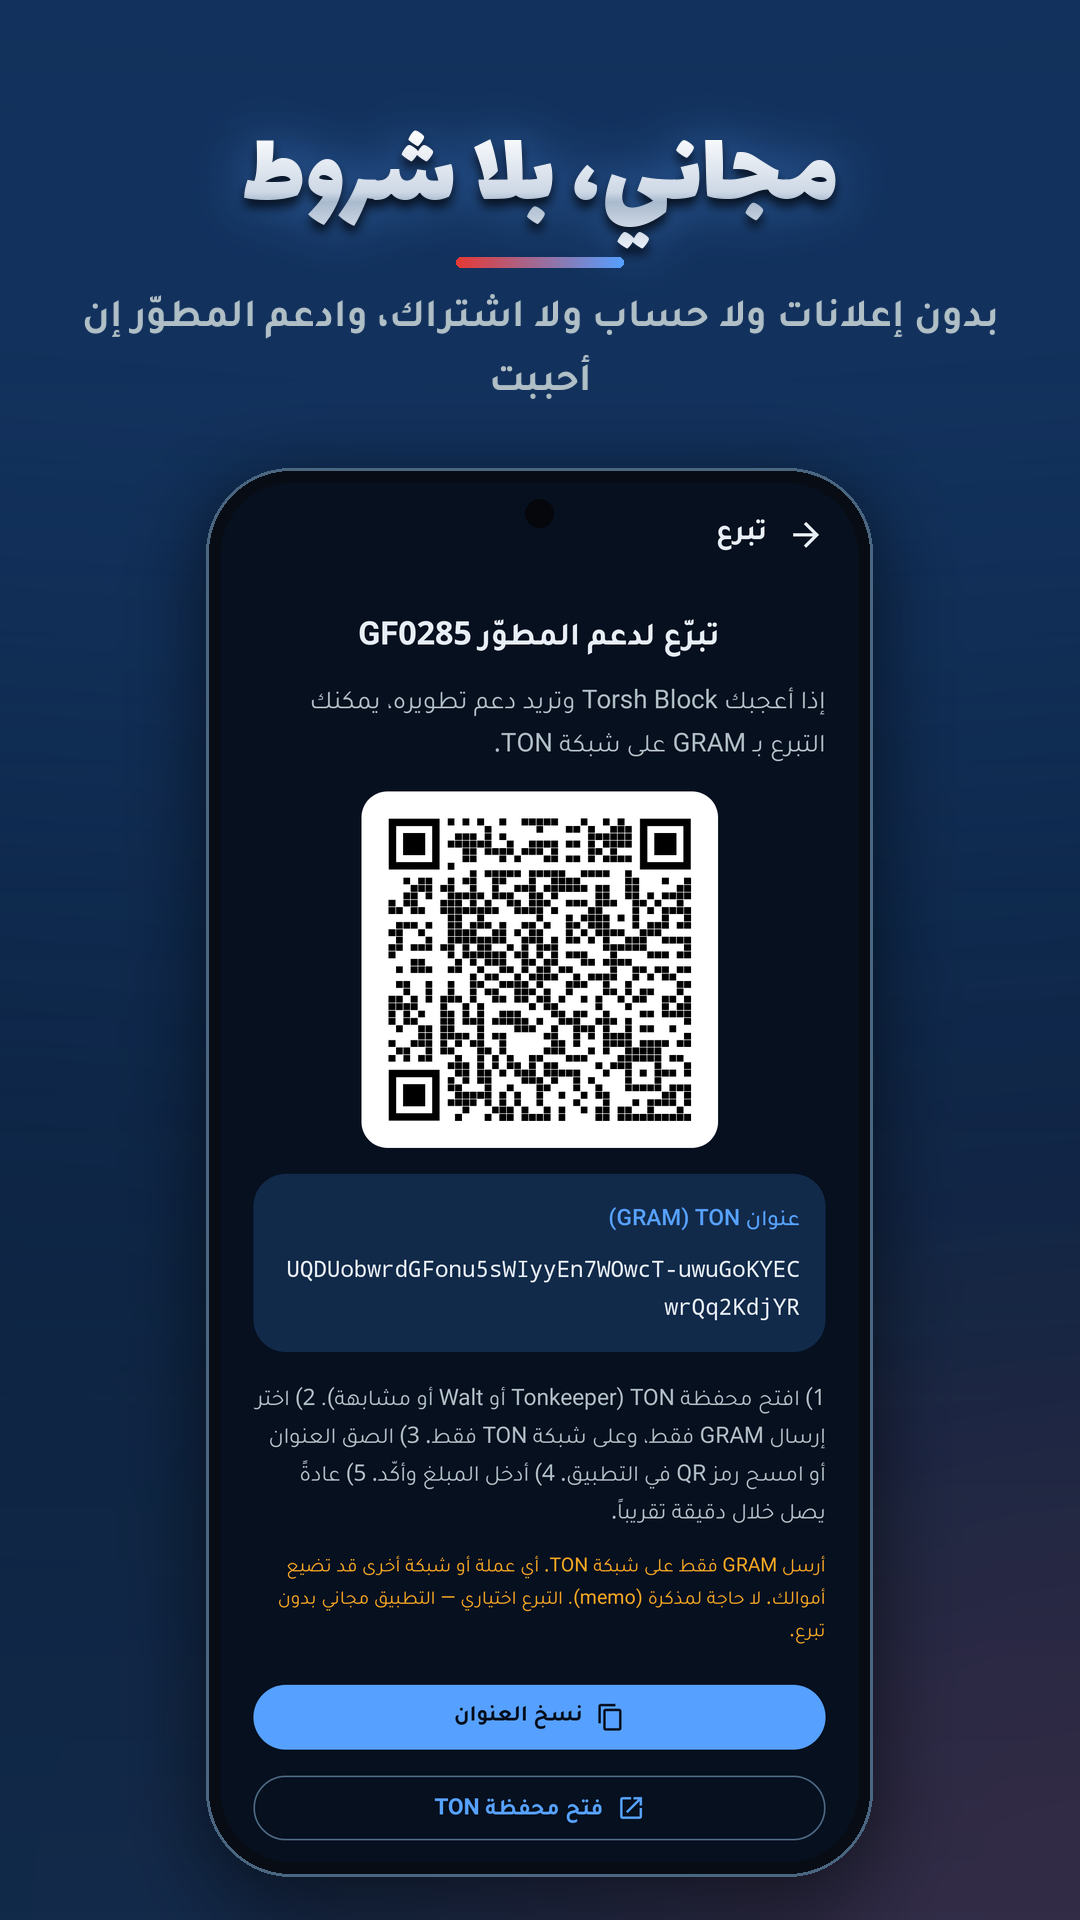
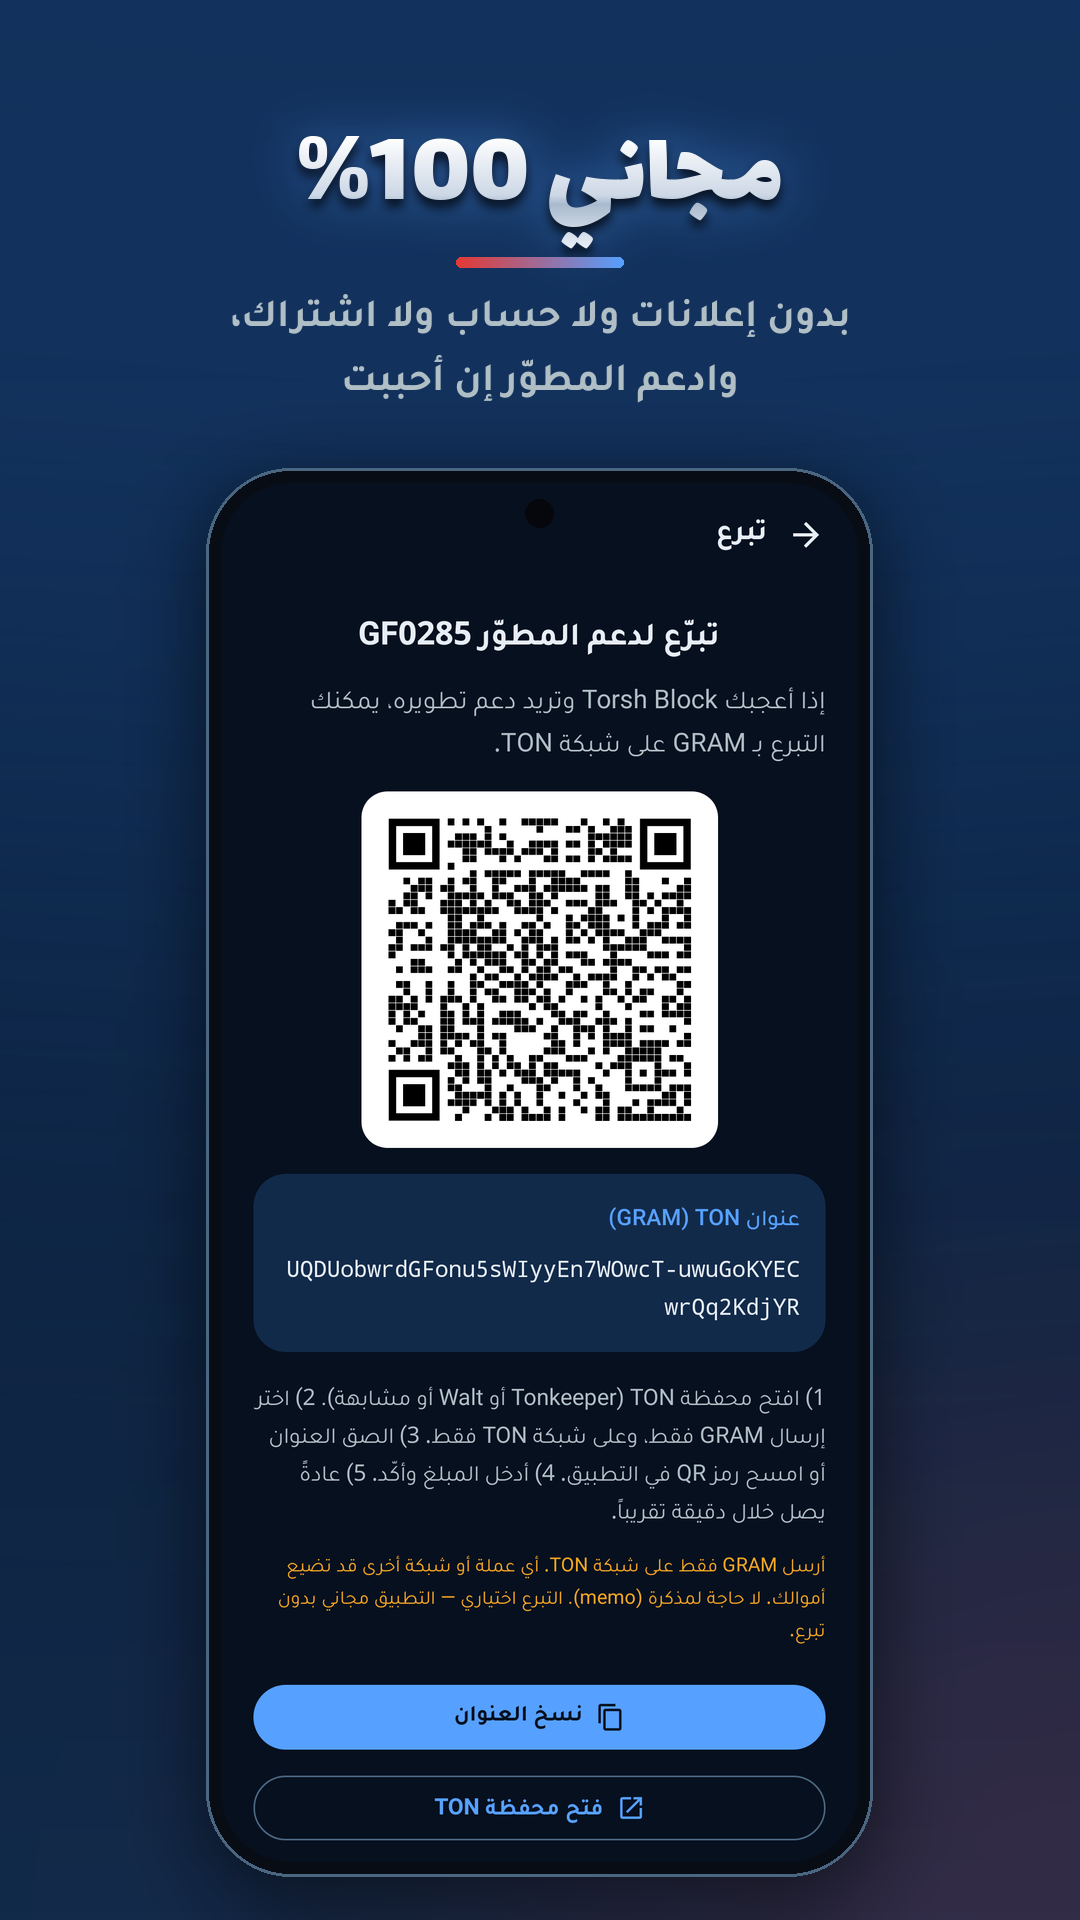
100% free wording, clean bypass screenshot, consistent demo stats

Changed region(s): [[0.0917, 0.0625, 0.9167, 0.2188]]

diff --git a/README.md b/README.md
@@ -1,5 +1,5 @@
 <p align="center">
-  <img src="docs/hero_banner.png" alt="Torsh Block — حاجب إعلانات مجاني، بلا روت · The free ad blocker, no root" width="100%">
+  <img src="docs/hero_banner.png" alt="Torsh Block — حاجب إعلانات مجاني 100%، بلا روت · The 100% free ad blocker, no root" width="100%">
 </p>
 
 <p align="center">
@@ -16,7 +16,7 @@
 
 ## العربية
 
-**إعلانات أقل، راحة أكثر.** <span dir="ltr">Torsh Block</span> حاجب إعلانات مجاني لهواتف أندرويد وأجهزة التلفاز (<span dir="ltr">Android TV</span> و<span dir="ltr">Fire TV</span>)، **بدون روت** ولا حساب. يحجب الإعلانات والمتتبّعات في كل التطبيقات والمتصفحات عبر شبكة <span dir="ltr">VPN</span> محلية على جهازك، دون أي اشتراك.
+**إعلانات أقل، راحة أكثر.** <span dir="ltr">Torsh Block</span> حاجب إعلانات مجاني 100% لهواتف أندرويد وأجهزة التلفاز (<span dir="ltr">Android TV</span> و<span dir="ltr">Fire TV</span>)، **بدون روت** ولا حساب. يحجب الإعلانات والمتتبّعات في كل التطبيقات والمتصفحات عبر شبكة <span dir="ltr">VPN</span> محلية على جهازك، دون أي اشتراك.
 
 <p align="center"><img src="docs/TorshBlock-demo.gif" alt="عرض سريع لتطبيق Torsh Block" width="640"></p>
 <p align="center">🎬 <a href="https://github.com/GF0285/torsh-block/releases/download/v0.5.0/TorshBlock-0.5.0-demo.mp4">شاهد الفيديو بجودة <span dir="ltr">1080p</span></a></p>
@@ -28,7 +28,7 @@
 - 🗣 **بلغتك:** العربية، والدارجة المغربية، والإنجليزية، والإسبانية، مع واجهة من اليمين إلى اليسار.
 - 📺 **على شاشتك الكبيرة:** يعمل على أجهزة <span dir="ltr">Android TV</span> وأجهزة <span dir="ltr">Fire TV</span>، بالتحكم عن بُعد بالكامل.
 - 🔄 **تحديثات موقّعة:** من داخل التطبيق، يتحقق من التوقيع والشهادة قبل التثبيت.
-- 💯 **مجاني بالكامل:** بدون إعلانات ولا حساب ولا اشتراك.
+- 💯 **مجاني 100%:** بدون إعلانات ولا حساب ولا اشتراك.
 
 ### لقطات من التطبيق
 | | | |
@@ -66,7 +66,7 @@ https://github.com/GF0285/torsh-block/releases/download/v0.5.0/TorshBlock-0.5.0-
 كل إصدار يحتوي على ملف <span dir="ltr">SHA256SUMS.txt</span>. والتطبيق نفسه يرفض أي تحديث غير موقّع بالمفتاح الرسمي.
 
 ### ادعم المشروع
-التطبيق مجاني وسيبقى كذلك. إن أعجبك وأردت دعم التطوير، يمكنك التبرع بعملة <span dir="ltr">GRAM</span> على شبكة <span dir="ltr">TON</span> إلى المحفظة:
+التطبيق مجاني 100% وسيبقى كذلك. إن أعجبك وأردت دعم التطوير، يمكنك التبرع بعملة <span dir="ltr">GRAM</span> على شبكة <span dir="ltr">TON</span> إلى المحفظة:
 
 <div dir="ltr" align="left">
 
@@ -89,7 +89,7 @@ UQDUobwrdGFonu5sWIyyEn7WOwcT-uwuGoKYECwrQq2KdjYR
 
 ## English
 
-**Fewer ads. More calm.** Torsh Block is a free ad blocker for Android phones, Android TV and Fire TV. **No root**, no account. It blocks ads and trackers in every app and browser through a local on-device VPN, with no subscription.
+**Fewer ads. More calm.** Torsh Block is a 100% free ad blocker for Android phones, Android TV and Fire TV. **No root**, no account. It blocks ads and trackers in every app and browser through a local on-device VPN, with no subscription.
 
 <p align="center"><img src="docs/TorshBlock-demo.gif" alt="Torsh Block demo" width="640"></p>
 <p align="center">🎬 <a href="https://github.com/GF0285/torsh-block/releases/download/v0.5.0/TorshBlock-0.5.0-demo.mp4">Watch the 1080p video</a></p>
@@ -101,7 +101,7 @@ UQDUobwrdGFonu5sWIyyEn7WOwcT-uwuGoKYECwrQq2KdjYR
 - 🗣 **Speaks your language:** Arabic, Moroccan Darija, English and Español, with a full right-to-left UI.
 - 📺 **Made for the big screen:** works on Android TV and Fire TV, fully usable with the remote.
 - 🔄 **Signed updates:** in-app updates, with signature and certificate checked before install.
-- 💯 **Free. No strings.** No ads, no account, no subscription.
+- 💯 **100% free.** No ads, no account, no subscription.
 
 ### A look inside
 | | | |
@@ -135,7 +135,7 @@ On Android TV (Google TV and others) use the same steps with the **universal** A
 Every release ships `SHA256SUMS.txt`. The app itself refuses any update that is not signed with the official Torsh Block key.
 
 ### Support the project
-Torsh Block is free and will stay free. If you like it and want to support development, you can donate **GRAM on the TON network** to:
+Torsh Block is 100% free and will stay free. If you like it and want to support development, you can donate **GRAM on the TON network** to:
 
 ```
 UQDUobwrdGFonu5sWIyyEn7WOwcT-uwuGoKYECwrQq2KdjYR

diff --git a/docs/brand/BRAND.md b/docs/brand/BRAND.md
@@ -44,7 +44,8 @@ Real app renders (Robolectric screenshot suite of the final build, demo data onl
 
 ## Copy
 - Name: Torsh Block (never "TorshBlock" in prose; file names may use it).
-- Tagline AR: «إعلانات أقل، راحة أكثر» — EN: "Fewer ads. More calm." Positioning: «حاجب إعلانات مجاني، بلا روت» / "The free ad blocker, no root".
-- Demo data in renders: realistic loaded rule count, never "0 rules".
+- Tagline AR: «إعلانات أقل، راحة أكثر» — EN: "Fewer ads. More calm." Positioning: «حاجب إعلانات مجاني 100%، بلا روت» / "The 100% free ad blocker, no root".
+  Full approved copy: `torsh-block-dist/0.5.0/marketing/font_samples/COPY.md`.
+- Demo data in renders: realistic loaded rule count (94318 rules, `ScreenshotTest.DEMO_RULES`), never "0 rules".
 - Platforms: Android · Android TV · Fire TV.
 - Credits: «صُنع بـ ♥ من طرف GF0285 عضو كل من GeeksFamily و DWM» / "Made with ♥ by GF0285, member of GeeksFamily and DWM".
